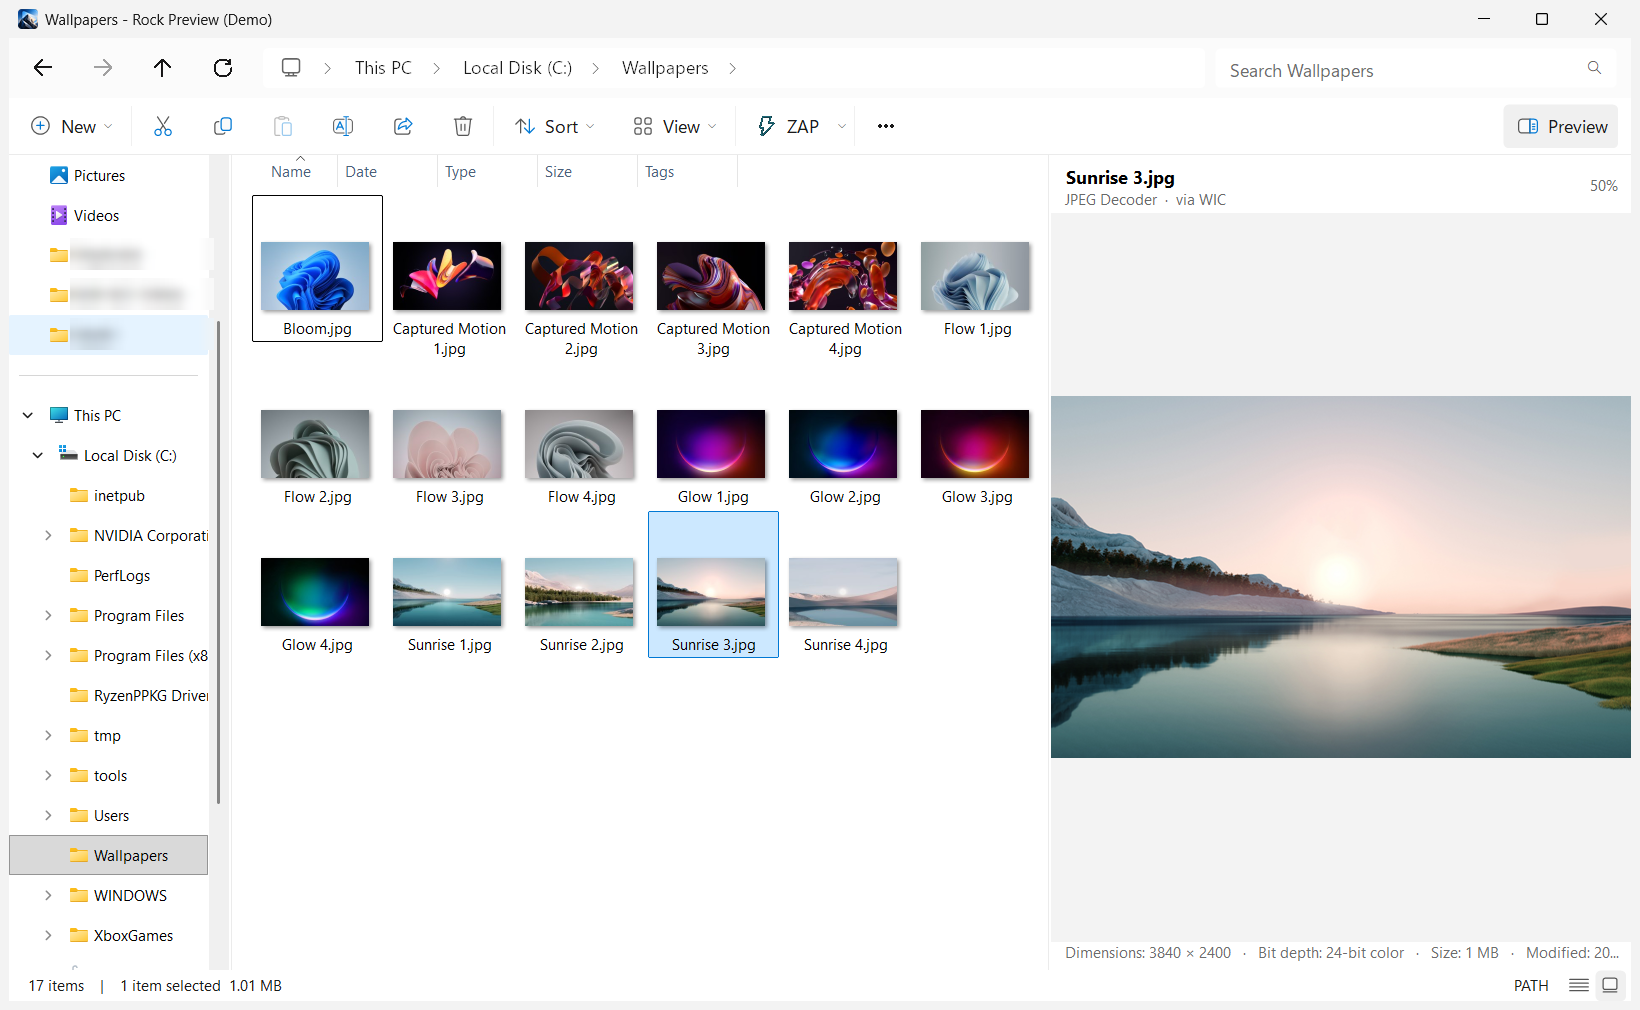
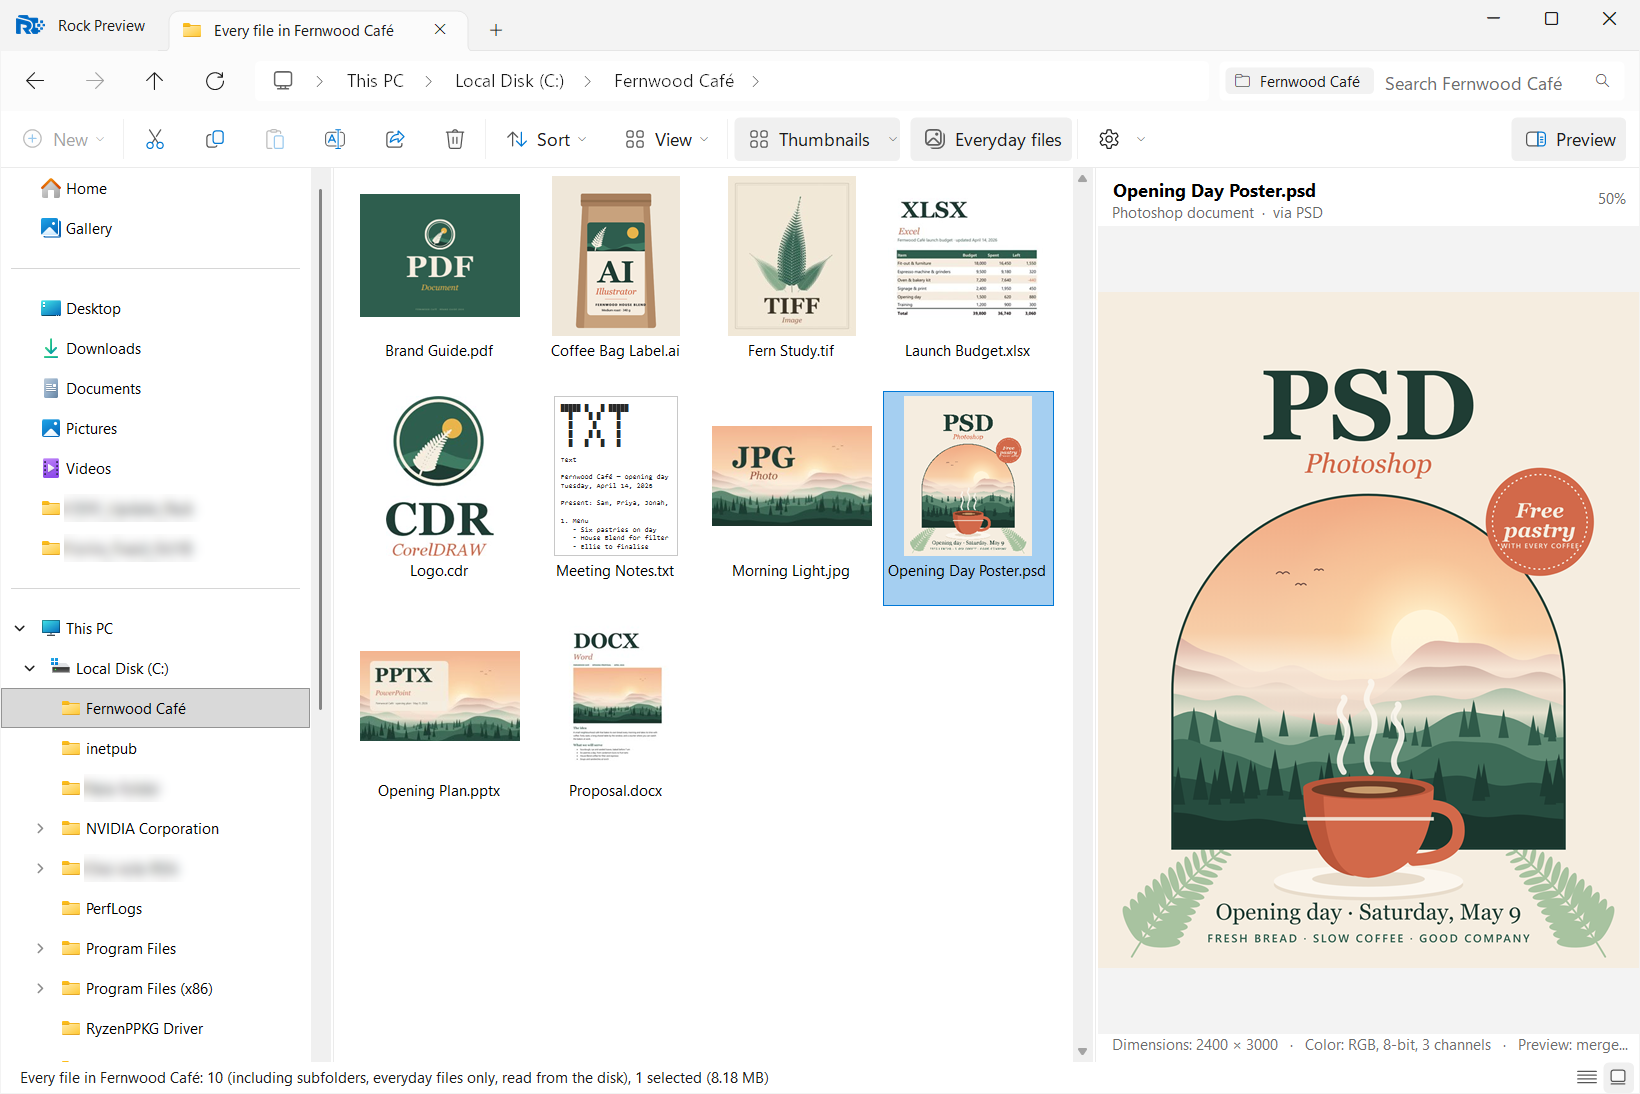
README: new main screenshot with ten file types as thumbnails
The picture at the top of the README now shows Thumbnails on a folder of
PDF, Excel, Word, PowerPoint, CorelDRAW, Illustrator, Photoshop, TIFF, JPEG
and text files, each labelled with its extension, and the Photoshop file in
the preview pane. The sample files are made-up content.

diff --git a/README.md b/README.md
@@ -21,7 +21,7 @@ Press **`Alt+X`** in any app to open it.
 
 **[⬇ Download Rock Preview](https://github.com/RockySharaf/rock-preview/releases/latest)** · [Features](#features) · [Search syntax](#search-syntax) · [Build from source](#build-from-source)
 
-<img src="docs/images/explorer.png" alt="Rock Preview, a file explorer for Windows: the Windows 11 Explorer view with large thumbnails and the preview pane" width="900">
+<img src="docs/images/explorer.png" alt="Rock Preview, a file explorer for Windows: a folder of PDF, Excel, Word, PowerPoint, CorelDRAW, Illustrator, Photoshop, TIFF, JPEG and text files shown as thumbnails, with the Photoshop file in the preview pane" width="900">
 
 </div>
 
